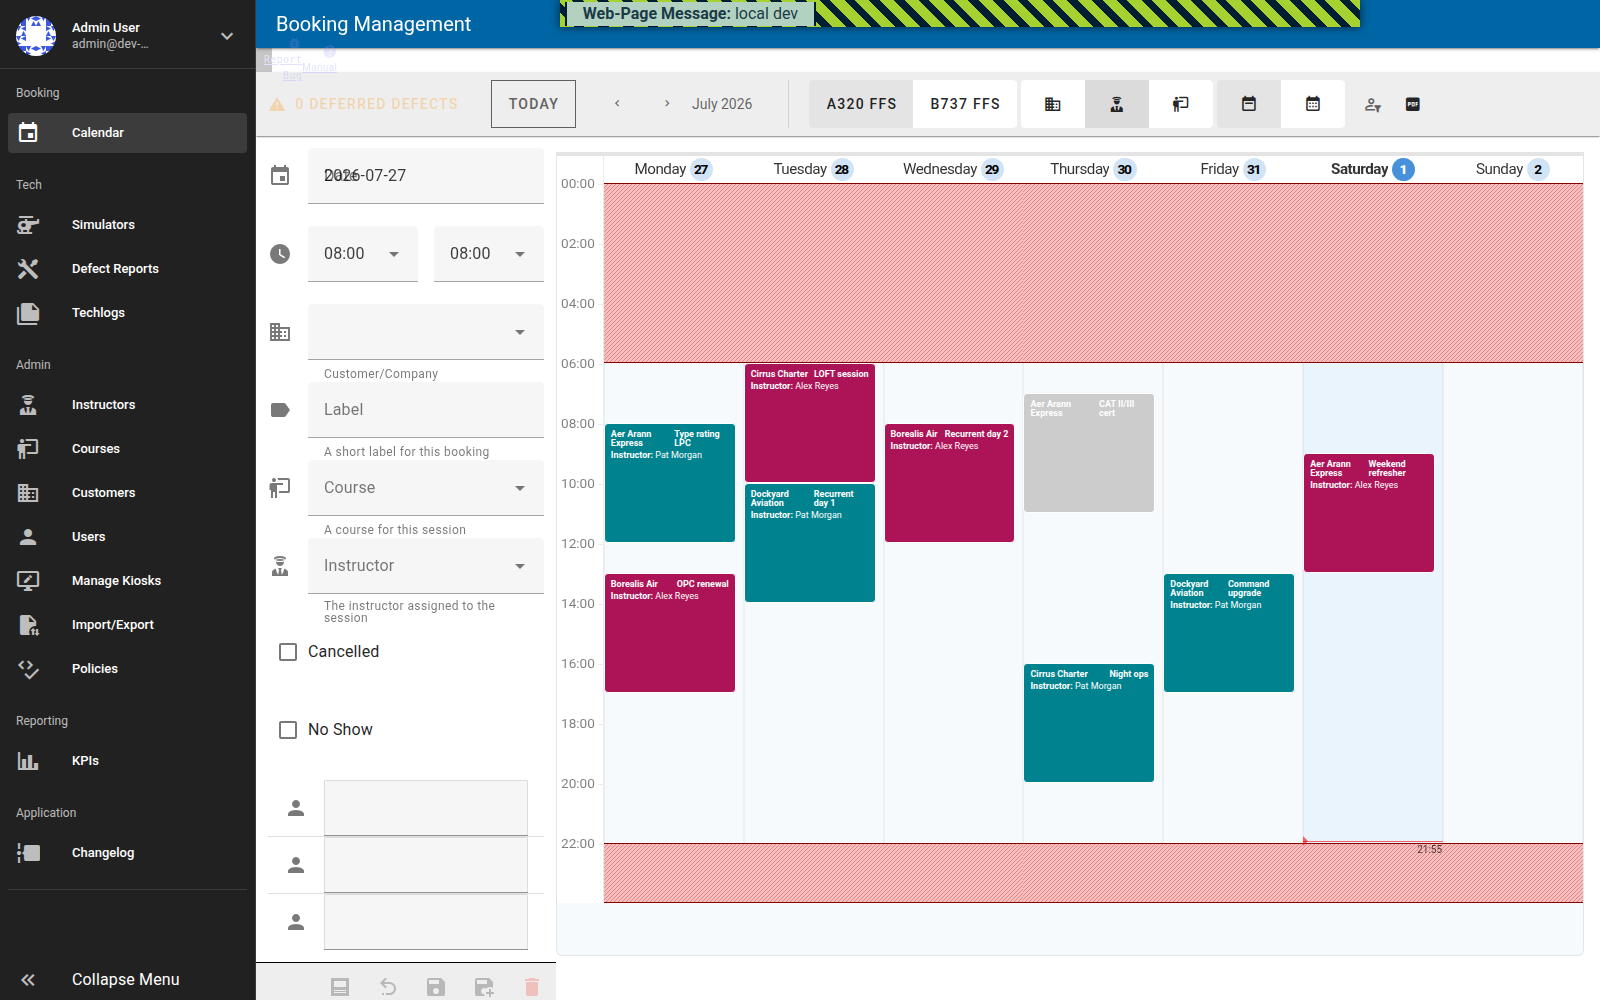
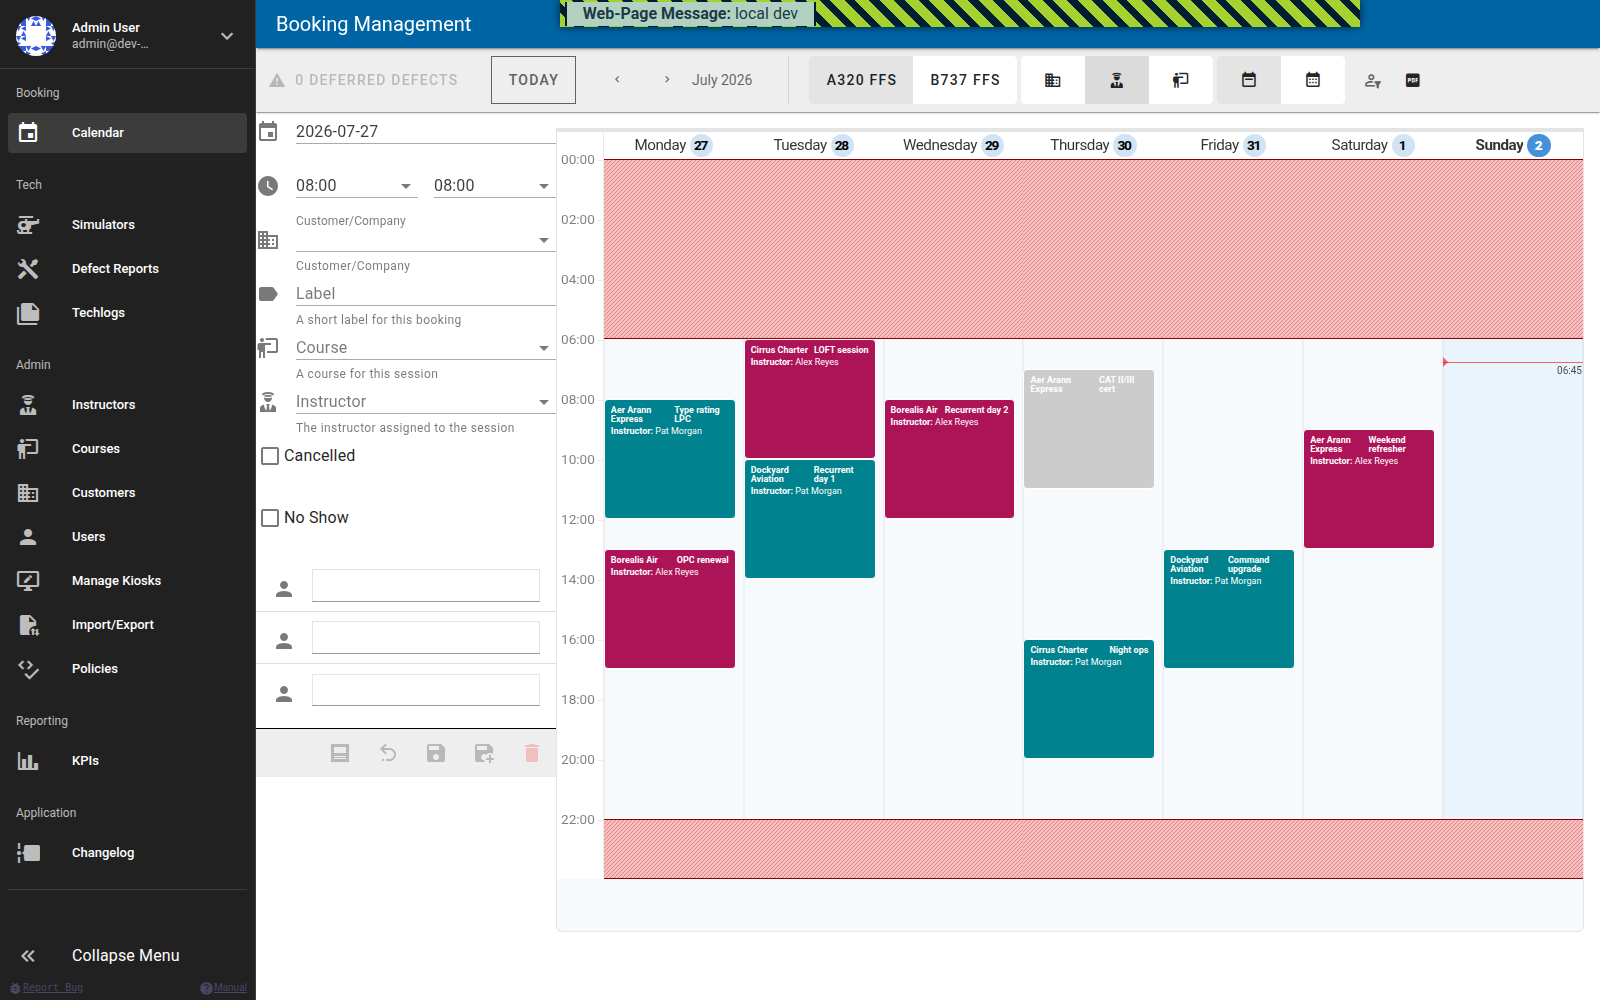
docs: record the screenshot-review fixes and refresh the captures
A human review of the Vue 3 screenshots found three regressions the
automated parity pass missed: the unreadable disabled defects button,
the drawer footer pinned over the app bar, and the over-tall booking
sidebar. All fixed in the frontend (pinned here), along with the two
date pickers the sidebar fix exposed. The four Vue 3 captures are
retaken with the fixes in place.

diff --git a/docs/vue3-migration.md b/docs/vue3-migration.md
@@ -230,9 +230,18 @@ layered:
 
 ### Known cosmetic differences
 
-None outstanding. The banner z-index, the `[object Object]` label, the
-month heading, and the editor's default date and time were all Vue 3
-regressions found during the parity pass and fixed.
+None outstanding. Two rounds of regressions were found against the
+reference screenshots and fixed:
+
+- First pass: the banner z-index, the `[object Object]` label, the
+  month heading, and the editor's default date and time.
+- Screenshot review (2026-08-02): the unreadable disabled
+  deferred-defects button, the drawer footer links pinned over the app
+  bar (`v-system-bar` became a viewport layout component in Vuetify 3),
+  and the over-tall booking sidebar (Vuetify 3's default "filled" field
+  variant; a defaults provider now restores the Vuetify 2
+  underlined/compact look). Fixing the sidebar also surfaced and fixed
+  the two date pickers still written against the Vuetify 2 API.
 
 ## Parity verification recipe
 
